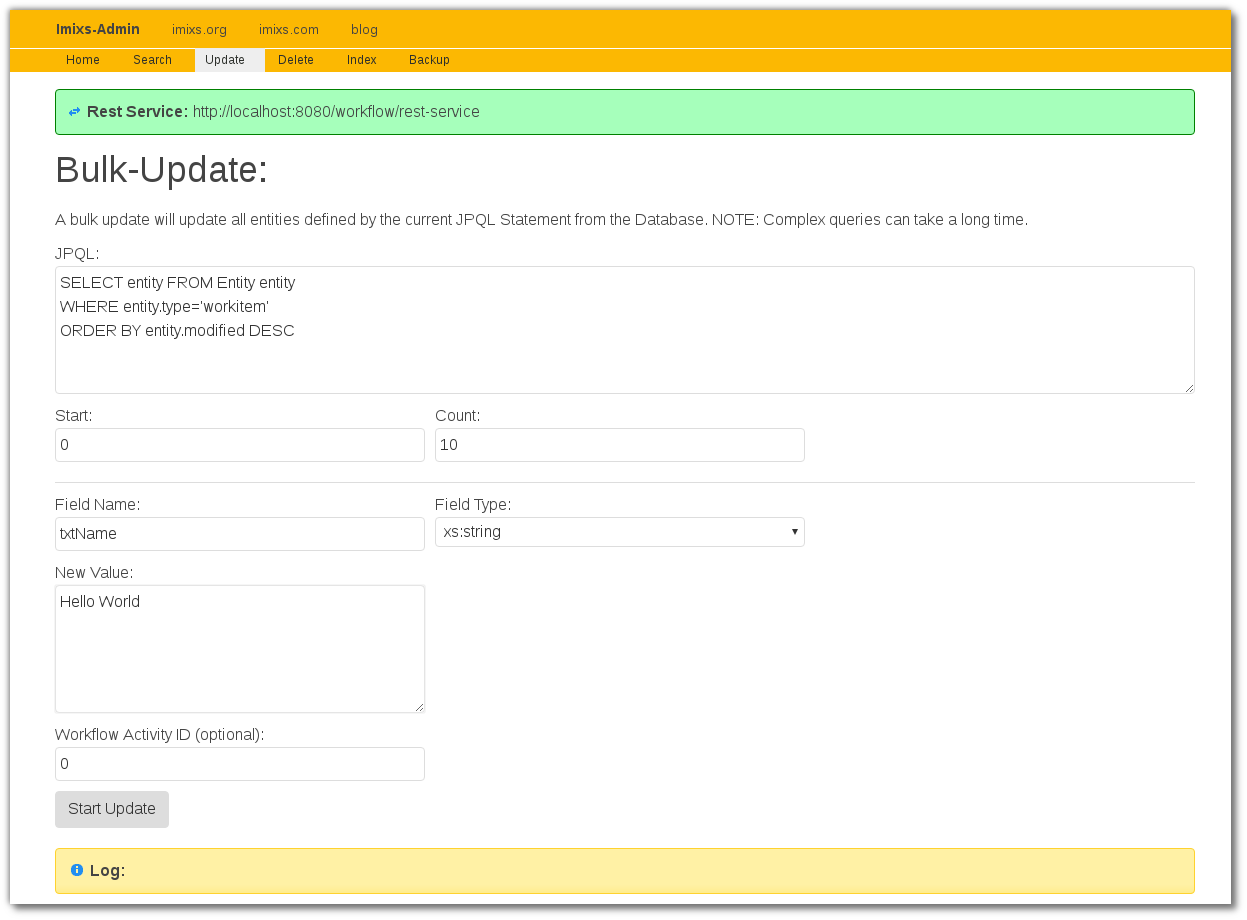
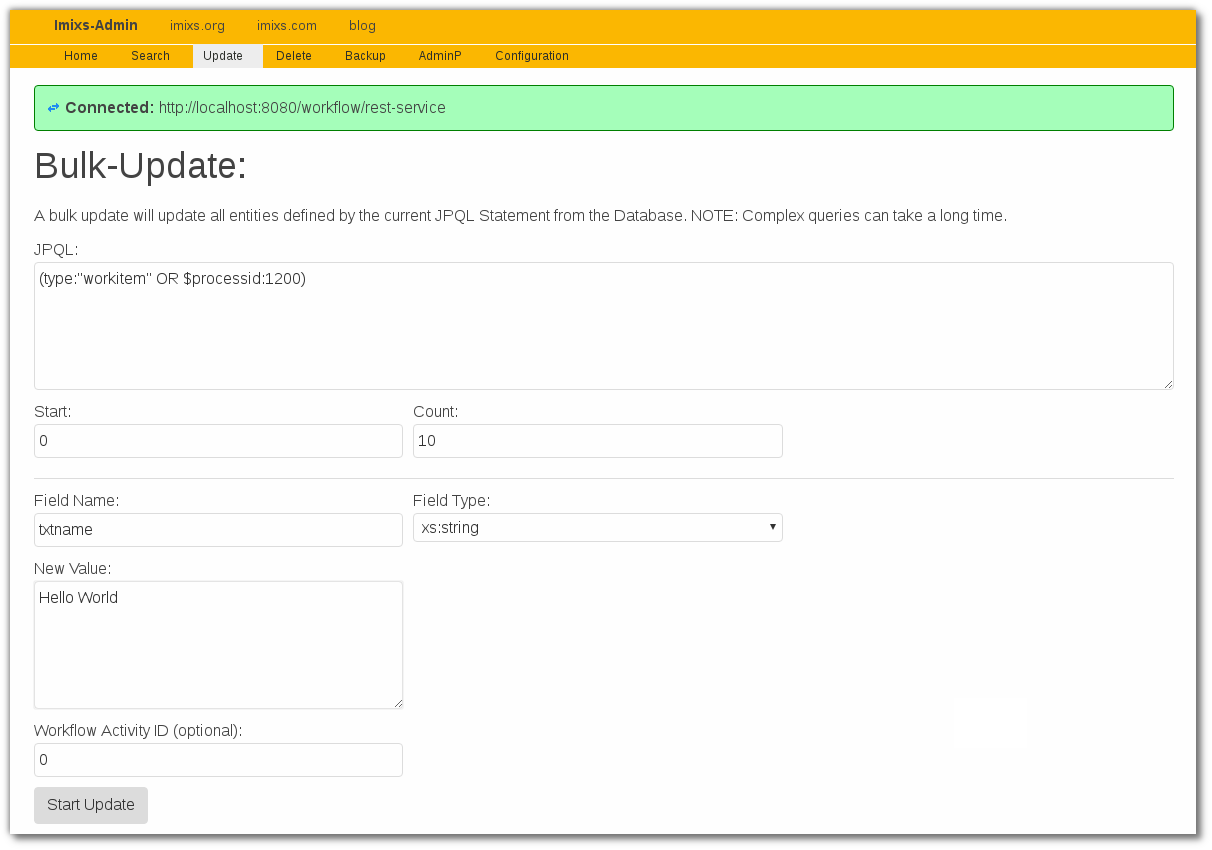
docu

diff --git a/src/site/markdown/engine/queries.md b/src/site/markdown/engine/queries.md
@@ -1,108 +1,33 @@
-#How to Query ItemCollections
-Using the EntityService gives you a powerful method to query ItemCollections from your database. To query a set of ItemCollections you can define an JPQL Statement and call the findAllEntities method of the EntityService.
- 
-JPQL is similar to SQL in it's use of the select clause and the where clause. An JPQL statement in the Imixs JEE Workflow contains typically one view to the Entity Class and a optional set of where conditions.
- 
-    SELECT entity FROM Entity entity ORDER BY entity.created DESC
+#How to Search Documents
+As the Imixs-Workflow engine is bundled with the [Lucene Search Technology](https://lucene.apache.org/) documents can be query by a lucene search term. 
+A search string can be specified either as a simple string or as an combination of multiple parentheses expressions.
 
-You can use the [Imixs Admin Client Tool](../administration.html) to test a Query against a running workflow instance.
- 
-<strong>Note:</strong> The EntityService cares about the individual read access of the user who is calling  the findAllEntities method. This means that also when the query will contains a large set of  ItemCollections the method returns only these ItemCollections the user has read access for! 
- 
-You can restrict the collection returned by the EntityService by the definition of a WHERE clause. The where clause can contain conditions to attributes of the Entity Class or properties of the ItemCollection represented by the Entity. 
- 
-    SELECT entity FROM Entity entity WHERE entity.type='person'
-    ORDER BY entity.created DESC
-  
-This Query selects all ItemCollections from the type "person". Each ItemCollection returned by this statement contains a property 'type' with the value 'person'. The property 'type' is a standard property of the Entity class. This is the reason because you can select this property directly.  All other properties of an ItemCollection stored by the EntityService can be selected if the property is defined as an IndexProperty. 
-
-##Definition of an IndexProperty
- 
-To define a new IndexProperty you can use the [Imixs Admin Client Tool](../administration.html) or call the method addIndex of the EntityService. Adding a new Index allows the definition of complex JPQL Statements. 
- 
-You can define the PropertyName the new Index should be created for and the type of the IndexProperty. After adding a new Index the workflow system will be automatically reorganized.  So in large databases adding a new IndexProperty can take some minutes.
- 
-The programmatic way to add a new IndexProperty is a method call addIndex() from the EntityService. The methode can be called by an EJB or a simple Java Class. The method addIndex() adds an IndexProperty to the Workflow instance. The addIndex method expects the name of the property and the Index type: 
-
-	@EJB
-	    org.imixs.workflow.jee.ejb.EntityService entityService;
-	.....
-	        entityService.addIndex("firstname", EntityIndex.TYP_TEXT);
-	        entityService.addIndex("lastname", EntityIndex.TYP_TEXT);
-	        entityService.addIndex("amount", EntityIndex.TYP_INTEGER);
-	        entityService.addIndex("summary", EntityIndex.TYP_DOUBLE);
-	        entityService.addIndex("date", EntityIndex.TYP_CALENDAR);
-        
- 
-This example shows who to define different IndexProperties of different data types.
-To select a set of ItemCollections containing IndexProperties allows you the define an JPQL statement with a WHERE clause to filter specify ItemCollections. As each IndexProperty is a sub stream (equals to a seperate table in SQL) you need to define a JOIN to each IndexProperty you want to define in a select statement.
- 
-	 SELECT project from Entity AS project
-	  JOIN project.textItems AS t
-	  WHERE project.type='project'
-	  AND t.itemName = 'projectname'
-	  AND t.itemValue = 'Web Application' 
- 
-This example selects all ItemCollections from the type 'project' containing an IndexProperty with the name "projectname" and the value "Web Application"
- 
-##Standard Properties 
-Each ItemCollection stored by the EntityService contains a set of standard Properties which did not  need to be defined by an IndexProperty. These Properties are:
- 
- * type  - String value of the ItemCollection property type (default = "Entity")
- * created - the point of time where the ItemCollection was first saved by the EntityService 
- * modified - point of time where the ItemCollection was last saved by the EntityService
- * readAccess - a Entity List restricting the ReadAcces to an ItemCollection. Also represented by the Property "$readaccess"
- * writeAccess - a Entity List restricting the WriteAcces to an ItemCollection. Also represented by the Property "$writeaccess"
-   
-	 SELECT project from Entity AS project
-	  JOIN project.writeAccess AS writeaccess
-	  WHERE project.type='project'
-	  AND writeaccess.value IN ('projectowner', 'projectmanager')
-
-This example selects all ItemCollections from the type 'project' and a write access restriction to  the roles 'projectowner' OR 'projectmanager'
- 
-<strong>Note:</strong> It is not necessary to define a JPQL Statement with an WHERE clause selecting the property  readaccess. This is because the EntityService contains an Query optimizer which automatically returns only ItemCollection which are accessable to the caller principal. So if you select a Set of ItemCollections the size of the resultset depends on the read restrictions and the  access level of the caller pricipal. This is one of the main security features  of the Imixs JEE Workflow Implementation.
-     
-## Multiple Joins
-You can select ItemCollections with a lot of different properties by defining more than one IndexProperty and using multi joins. The following query select only ItemCollections containg a specific projectname and a minimum team size:
-
-	 SELECT project FROM Entity AS project
-	 JOIN project.textItems AS t1
-	 JOIN project.integerItems AS t2
-	 WHERE project.type='project'
-	  AND t1.itemName = 'projectname'
-	  AND t1.itemValue IN ('Project-A','Project-B')
-	  AND t2.itemName = 'teamsize'
-	  AND t2.itemValue >= 10
-	 ORDER BY project.created ASC
-
-Notice that as more joins you use as longer the response time of the query will take to be computed.
- 
- 
-## Subqueries
-Subqueries are a powerful technique for solving the most complex query scenarios. A subquery is a complete select query inside a pair of parentheses that is embedded within a 
- conditional expression. The following example shows how subqueries work with the concept of IndexProperties.  The example is from a resource management system where rooms can be booked using a booking system. Each booking holds a reference to a booked room ($uniqueidRef). The query selects all rooms where no booking exists for a specified period (2008-09-05 to 2008-09-15)
-
-	 SELECT room FROM Entity AS room
-	 WHERE room.type = 'room'
-	 AND room.id NOT IN (
-	 SELECT tref.itemValue FROM Entity AS booking
-	 join booking.textItems AS t1
-	 join booking.calendarItems AS dvon
-	 join booking.calendarItems AS dbis
-	 join booking.textItems AS tref
-	 WHERE t1.itemName = 'type' AND t1.itemValue = 'booking'
-	 AND tref.itemName='$uniqueidref' 
-	 AND dvon.itemName = 'datbookingvon' AND dbis.itemName = 'datbookingbis'
-	 AND ( 
-		 (dvon.itemValue BETWEEN '2008-09-5' AND '2008-09-15')
-		 OR (dbis.itemValue BETWEEN '2008-09-5' AND '2008-09-15')
-		 OR (dvon.itemValue <= '2008-09-5' AND dbis.itemValue >='2008-09-15')
-		 )
-	 ) 
- 
-
- 
-
+    the imixs workflow egine
     
+expressions may contain parentheses expressions
  
+	(imixs-workflow) (engine)
+	
+expressions can also include wildcards
+
+    (imixs*)
+    
+This serach term will serach for all documents containing a phrase starting with 'imxis'
+
+
+##Query Items
+
+The Imixs-Worklfow engine takes also a list of [workflow data items](../quickstart/workitem.html) into the index. These items can be used to serach for documents of a specific type or category:
+
+
+    (type:"workitem") ($processid:1200)
+     
+To specify more complex queries a search term can boolean expressions like 'AND' or 'OR'
+
+	(type:"workitem" OR $processid:1200)
+
+This serach term will search for all documents from the type 'workitem' or the $processid 1200.
+
+See the [Lucene Query Syntax](https://lucene.apache.org/core/3_6_0/queryparsersyntax.html) for further information.
+ 
+      

diff --git a/src/site/markdown/administration.md b/src/site/markdown/administration.md
@@ -1,42 +1,42 @@
 # The Imixs Admin Client
-The Imixs Admin Client is a Web Front-End to administrate an instance of the Imixs-Workflow Engine.  The Client can be connected via the [Imixs Rest API](./restapi/index.html) with an instance of the Imixs-Workflow engine. The Imixs Admin Client can be deployed on any Java EE Server to administrate different instances of the Imixs-Workflow engine running on the same host. 
+The Imixs Admin Client is a Web Front-End to administrate an instance of the Imixs-Workflow engine. The Client can be connected via the [Imixs Rest API](./restapi/index.html) with an instance of the Imixs-Workflow engine. The Imixs Admin Client can be deployed on any Java EE Server to administrate different instances of the Imixs-Workflow engine running on the same host. 
  
 ##Installation & Deployment
-The sources of the Imixs Admin Client can be download form [GitHub](https://github.com/imixs/imixs-admin/releases). The Maven based client supports different web server profiles for GlassFish and JBoss/Wildfly. After the deployment of the Imixs Admin Client the Web module is accessible using the following url:
+The sources of the Imixs Admin Client can be download form [GitHub](https://github.com/imixs/imixs-admin/releases). The maven based client supports different web server profiles for GlassFish and JBoss/Wildfly. After the deployment, the Imixs Admin is accessible using the following url:
 
 	http://localhost:8080/adminclient 
 
-The Imixs Admin Client requires the user to authenticate with a valid security realm. The authenticated user (Administrator) needs at least the the Role "IMIXS-WORKFLOW-Manager". The default security realm used by the Imixs Admin Client is "imixsrealm" which need to be configured on the Application Server. 
+The Imixs Admin Client requires the user to authenticate with a valid security realm. The authenticated user (Administrator) needs at least the the Role "IMIXS-WORKFLOW-Manager". The default security realm used by the Imixs Admin Client is "imixsrealm" which can to be configured on the Application Server. 
 
-To connect to a worklfow engine the corresponding Imixs Rest Service URL  need to be entered. 
+To connect to an instance of the Imixs-Workflow engine the corresponding Imixs Rest Service URL need to be entered. 
 
 <img src="images/imixs-admin-client-01.png" /> 
  
-After entered a valid Rest URI the client can be connected to the Imixs-Workflow engine to query data using JPQL statements.
+Next the client can be connected to the Imixs-Workflow engine to query data using a search terms.
 
 <img src="images/imixs-admin-client-02.png" /> 
   
-See the[JPQL section](./engine/queries.html) for futher details about using the Query Languate in Imixs-Workflow. 
+See the section [Query Syntax](./engine/queries.html) for further details. 
 
 ## Update Enities
 
-The Imixs Admin Client provides a interface to update or delete entities (Workitems) managed by the Imxis-Workflow engine. It is possible to run bulk updates on a result set to update a specifiy item or to process workflow instances with a specific workflow event. 
+The Imixs Admin Client provides a interface to update or delete entities (Workitems) managed by the Imxis-Workflow engine. It is possible to run bulk updates on a result set to update a single item or to process workflow instances with a specific workflow event. 
 
 <img src="images/imixs-admin-client-03.png" /> 
 
-## Administrate the Imixs Index Properties
-The Imixs Admin Client provides also a interface to administrate the Imixs Index tables. 
+## The Administration Process
+The Imixs Admin Client provides an administration process (AdminP) which can be used to maintain the documents and process instances managed by the Imixs-Workflow engine. 
 
 <img src="images/imixs-admin-client-04.png" /> 
 
-New indexes can be added and existing indexes can be removed from the Back-End. . 
+The administration process can be used update the lucene index. There is also a feature to migrate a business application from Imixs-Workflow version 3.x to 4.x.
 
 
 ##Backup & Restore
 With the Backup feature it is also possible to export entities into a file system and later re-import them into any exiting workflow instance.
 
-<img src="images/imixs-admin-client-04.png" /> 
+<img src="images/imixs-admin-client-05.png" /> 
 
  
-To backup a collection of workitems a JPQL statement can be specified.
+To backup a collection of workitems a search term can be specified.
  
